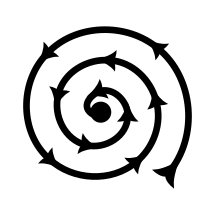
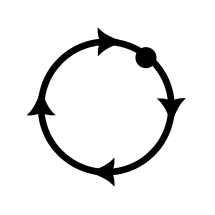
Changed Stability Types...
Changed the stability types to include attractor limit cycles (spirals into centre), repellor limit cycles (spirals away from centre) and cyclic limit cycles.

Changed region(s): [[0.0837, 0.1116, 0.893, 0.893]]

diff --git a/cellnition/science/network_models/probability_networks.py b/cellnition/science/network_models/probability_networks.py
@@ -242,7 +242,7 @@ class ProbabilityNet(NetworkABC):
 
         # Initialize a list of node indices that should be constrained (removed from solution searches)
         # due to their lack of regulation:
-        self.signal_node_inds = []
+        self.input_node_inds = []
 
         if A_add_s.shape != (self.N_nodes, self.N_nodes):
             raise Exception("Shape of A_add_s is not in terms of network node number!")
@@ -291,7 +291,7 @@ class ProbabilityNet(NetworkABC):
         for i in range(self.N_nodes):
             if self._add_terms[i] == 0 and self._mul_terms[i] == 1: # if there's no add term and no mul term
                 self._dcdt_vect_s.append(0) # set the rate of change of this unregulated node to zero
-                self.signal_node_inds.append(i) # append this node to the list of nodes that should be constrained
+                self.input_node_inds.append(i) # append this node to the list of nodes that should be constrained
             elif self._add_terms[i] == 0 and self._mul_terms[i] != 1: # remove the null add term to avoid nulling all growth
                 self._dcdt_vect_s.append(self._d_vect_s[i] * self._mul_terms[i] -
                                          self._c_vect_s[i] * self._d_vect_s[i])
@@ -312,7 +312,7 @@ class ProbabilityNet(NetworkABC):
         self._A_mul_s = A_mul_s
 
         # get the "regular" nodes:
-        self.nonsignal_node_inds = np.setdiff1d(self.nodes_index, self.signal_node_inds)
+        self.noninput_node_inds = np.setdiff1d(self.nodes_index, self.input_node_inds)
 
     def make_numerical_params(self,
                        d_base: float|list[float]=1.0,
@@ -564,33 +564,38 @@ class ProbabilityNet(NetworkABC):
             eig_vals = np.round(np.real(eig_valso), 1) + np.round(np.imag(eig_valso), 1) * 1j
 
             solution_dict['Jacobian Eigenvalues'] = eig_vals
+            # print(eig_vals)
 
             # get the indices of eigenvalues that have only real components:
             real_eig_inds = (np.imag(eig_vals) == 0.0).nonzero()[0]
 
-            # If all eigenvalues are real and they're all negative:
+            # If all eigenvalues are real and they're all negative then its an attractor:
             if len(real_eig_inds) == len(eig_vals) and np.all(np.real(eig_vals) <= 0.0):
                 char_tag = EquilibriumType.attractor.name
 
-            # If all eigenvalues are real and they're all positive:
+            # If all eigenvalues are real and they're all positive then its a repellor:
             elif len(real_eig_inds) == len(eig_vals) and np.all(np.real(eig_vals) > 0.0):
                 char_tag = EquilibriumType.repellor.name
 
-            # If there are no real eigenvalues we only know its a limit cycle but can't say
-            # anything certain about stability:
-            elif len(real_eig_inds) == 0 and np.all(np.real(eig_vals) <= 0.0):
-                char_tag = EquilibriumType.limit_cycle.name
-
-            # If there are no real eigenvalues and a mix of real component sign, we only know its a limit cycle but can't say
-            # anything certain about stability:
-            elif len(real_eig_inds) == 0 and np.any(np.real(eig_vals) > 0.0):
-                char_tag = EquilibriumType.limit_cycle.name
-
-            elif np.all(np.real(eig_vals[real_eig_inds]) <= 0.0):
-                char_tag = EquilibriumType.limit_cycle.name
-
-            elif np.any(np.real(eig_vals[real_eig_inds] > 0.0)):
+            # If all eigenvalues are real and they're a mix of positive and negative, then it's a saddle:
+            elif len(real_eig_inds) == len(eig_vals) and np.any(np.real(eig_vals[real_eig_inds] > 0.0)):
                 char_tag = EquilibriumType.saddle.name
+
+            # If there are imaginary eigenvalue components and all real components are less than zero we
+            # have a stable limit cycle:
+            elif np.any(np.imag(eig_vals) != 0.0) and np.all(np.real(eig_vals) <= 0.0):
+                char_tag = EquilibriumType.attractor_limit_cycle.name
+
+            # If there are imaginary eigenvalue components and all real components are less than zero we
+            # have a stable limit cycle:
+            elif np.any(np.imag(eig_vals) != 0.0) and np.all(np.real(eig_vals) > 0.0):
+                char_tag = EquilibriumType.repellor_limit_cycle.name
+
+            # If there are imaginary eigenvalues and a mix of real component signs, we only know its a limit cycle but can't say
+            # anything certain about stability:
+            elif np.any(np.imag(eig_vals) != 0.0) and np.any(np.real(eig_vals) > 0.0):
+                char_tag = EquilibriumType.limit_cycle.name
+
             else:
                 char_tag = EquilibriumType.undetermined.name
 
@@ -627,17 +632,6 @@ class ProbabilityNet(NetworkABC):
         solsM_return = np.asarray(solsM).T
         sol_char_list_return = np.asarray(sol_char_list).T
 
-        # if unique_sols and len(solsM) != 0:
-        #     # round the sols to avoid degenerates and return indices to the unique solutions:
-        #     solsy, inds_solsy = np.unique(np.round(solsM, sol_round), axis=0, return_index=True)
-        #     if verbose:
-        #         for i, si in enumerate(inds_solsy):
-        #             print(f'Soln {i}: {sol_char_list[si]}, '
-        #                   f'{solsy[si]}, '
-        #                   f'error: {np.round(sol_char_error[si], 6)}')
-        #
-        #     solsM_return = np.asarray(solsM)[inds_solsy].T
-
         if save_file is not None:
             solsMi = np.asarray(solsM)
             header = [f'State {i}' for i in range(solsMi.shape[0])]
@@ -662,7 +656,7 @@ class ProbabilityNet(NetworkABC):
         these naturally-occuring nodes with any additional constraints
         supplied by the user.
         '''
-        len_constr = len(self.signal_node_inds)
+        len_constr = len(self.input_node_inds)
 
         if signal_constr_vals is None: # default to zero
             sig_vals = np.zeros(len_constr).tolist()
@@ -671,10 +665,10 @@ class ProbabilityNet(NetworkABC):
 
         if len_constr != 0:
             if constr_inds is None or constr_vals is None:
-                constrained_inds = self.signal_node_inds.copy()
+                constrained_inds = self.input_node_inds.copy()
                 constrained_vals = sig_vals
             else:
-                constrained_inds = constr_inds + self.signal_node_inds.copy()
+                constrained_inds = constr_inds + self.input_node_inds.copy()
                 constrained_vals = constr_vals + sig_vals
         else:
             constrained_inds = constr_inds*1

diff --git a/cellnition/science/networks_toolbox/state_machine.py b/cellnition/science/networks_toolbox/state_machine.py
@@ -76,12 +76,20 @@ class StateMachine(object):
         attractor_fname = FileRelative(GLYPH_DIR, 'glyph_attractor.png')
         limitcycle_fname = FileRelative(GLYPH_DIR, 'glyph_limit_cycle.png')
         saddle_fname = FileRelative(GLYPH_DIR, 'glyph_saddle.png')
+        attractor_limitcycle_fname = FileRelative(GLYPH_DIR, 'glyph_attractor_limit_cycle.png')
+        repellor_limitcycle_fname = FileRelative(GLYPH_DIR, 'glyph_repellor_limit_cycle.png')
+        repellor_fname = FileRelative(GLYPH_DIR, 'glyph_repellor.png')
+        unknown_fname = FileRelative(GLYPH_DIR, 'glyph_unknown.png')
 
         # Associate each equilibrium type with an image file
         self._node_image_dict = {
             EquilibriumType.attractor.name: str(attractor_fname),
             EquilibriumType.limit_cycle.name: str(limitcycle_fname),
             EquilibriumType.saddle.name: str(saddle_fname),
+            EquilibriumType.attractor_limit_cycle.name: str(attractor_limitcycle_fname),
+            EquilibriumType.repellor_limit_cycle.name: str(repellor_limitcycle_fname),
+            EquilibriumType.repellor.name: str(repellor_fname),
+            EquilibriumType.undetermined.name: str(unknown_fname)
         }
 
     def steady_state_solutions_search(self,
@@ -103,13 +111,13 @@ class StateMachine(object):
         # FIXME: do we want this to have additional node constraints?
 
         sig_lin = [1.0e-6, 1.0]
-        sig_lin_set = [sig_lin for i in self._pnet.signal_node_inds]
+        sig_lin_set = [sig_lin for i in self._pnet.input_node_inds]
 
         sigGrid = np.meshgrid(*sig_lin_set)
 
         N_vocab = len(sigGrid[0].ravel())
 
-        sig_test_set = np.zeros((N_vocab, len(self._pnet.signal_node_inds)))
+        sig_test_set = np.zeros((N_vocab, len(self._pnet.input_node_inds)))
 
         for i, sigM in enumerate(sigGrid):
             sig_test_set[:, i] = sigM.ravel()
@@ -150,7 +158,7 @@ class StateMachine(object):
             charM_all.extend(chari)
 
             # _, inds_solsM_all_unique = np.unique(np.round(solsM_all, 1), axis=1, return_index=True)
-        _, inds_solsM_all_unique = np.unique(np.round(solsM_all, 1)[self._pnet.nonsignal_node_inds, :], axis=1,
+        _, inds_solsM_all_unique = np.unique(np.round(solsM_all, 1)[self._pnet.noninput_node_inds, :], axis=1,
                                              return_index=True)
 
         solsM_all = solsM_all[:, inds_solsM_all_unique]
@@ -166,14 +174,14 @@ class StateMachine(object):
             charM_all[0] = EquilibriumType.saddle.name  # update the state to a saddle node
 
         # set of all states referencing only the hub nodes; rounded to one decimal:
-        state_set = np.round(solsM_all[self._pnet.nonsignal_node_inds, :].T, 1).tolist()
+        state_set = np.round(solsM_all[self._pnet.noninput_node_inds, :].T, 1).tolist()
 
         states_dict = OrderedDict()
         for sigi in sig_test_set:
             states_dict[tuple(sigi)] = {'States': [], 'Stability': []}
 
         for sigi, state_subseto in zip(sig_test_set, sols_list):
-            state_subset = state_subseto[self._pnet.nonsignal_node_inds, :]
+            state_subset = state_subseto[self._pnet.noninput_node_inds, :]
             for target_state in np.round(state_subset, 1).T.tolist():
                 if target_state in state_set:
                     state_match_index = state_set.index(target_state)
@@ -258,7 +266,7 @@ class StateMachine(object):
                             for si in states_set_i:
                                 nde_i = f'{trans_label_i}.{si}'
                                 G_sub.add_node(nde_i, label=f'State {si}')
-                                G_sub.add_edge(nde_i, nde_j, label=f'S{trans_label_j}')
+                                G_sub.add_edge(nde_i, nde_j, label=f'I{trans_label_j}')
 
                         elif len(
                                 shared_states) > 1:  # allow for a 3rd level of hierarchy...we don't know what it means yet...
@@ -269,7 +277,7 @@ class StateMachine(object):
                                 for si in states_set_i:
                                     nde_i = f'{trans_label_i}.{si}'
                                     G_sub.add_node(nde_i, label=f'State {si}')
-                                    G_sub.add_edge(nde_i, nde_j, label=f'S{trans_label_j}')
+                                    G_sub.add_edge(nde_i, nde_j, label=f'I{trans_label_j}')
 
             else:
                 for si in states_set_i:
@@ -330,7 +338,7 @@ class StateMachine(object):
 
             trans_label_i = int(trans_label_io, 2)
 
-            G.add_subgraph(name=f'cluster_{trans_label_i}', label=f'Held at S{trans_label_i}')
+            G.add_subgraph(name=f'cluster_{trans_label_i}', label=f'Held at I{trans_label_i}')
 
         # Then get the way this specific graph will order them:
         subg_list = [subg.name for subg in G.subgraphs()]
@@ -401,7 +409,7 @@ class StateMachine(object):
                                                    style='filled',
                                                    fillcolor=nde_color)
 
-                                    G_sub.add_edge(nde_i, nde_j, label=f'S{trans_label_j}')
+                                    G_sub.add_edge(nde_i, nde_j, label=f'I{trans_label_j}')
 
             else:
                 for si in states_set_i:

diff --git a/cellnition_test/a00_unit/a90_sim/test_grn_workflow.py b/cellnition_test/a00_unit/a90_sim/test_grn_workflow.py
@@ -115,7 +115,7 @@ def test_grn_workflow_libgraph(tmp_path) -> None:
                                 sol_unique_tol=1.0e-1,
                                 sol_ko_tol=1.0e-1,
                                 constraint_vals=[0.0, 0.0, 0.0],  # *signal vals
-                                constraint_inds=gmod.signal_node_inds.copy(),  # * signal inds
+                                constraint_inds=gmod.input_node_inds.copy(),  # * signal inds
                                 update_string=None,  # * with string
                                 pure_gene_edges_only=False,  # * True
                                 node_type_dict=libg.node_type_dict,  # * None
@@ -246,7 +246,7 @@ def test_grn_workflow_readfromfile(tmp_path) -> None:
                                 sol_unique_tol=1.0e-1,
                                 sol_ko_tol=1.0e-1,
                                 constraint_vals=[0.0, 0.0, 0.0],  # *signal vals
-                                constraint_inds=gmod.signal_node_inds.copy(),  # * signal inds
+                                constraint_inds=gmod.input_node_inds.copy(),  # * signal inds
                                 update_string=None,  # * with string
                                 pure_gene_edges_only=False,  # * True
                                 node_type_dict=libg.node_type_dict,  # * None

diff --git a/cellnition/science/network_models/network_abc.py b/cellnition/science/network_models/network_abc.py
@@ -491,10 +491,10 @@ class NetworkABC(object, metaclass=ABCMeta):
         # aliases for convenience:
         # combine signals with factors as they have a similar 'setability' condition
         # from the outside
-        self.signal_node_inds = self.node_type_inds[NodeType.signal.name] + self.node_type_inds[NodeType.factor.name]
+        self.input_node_inds = self.node_type_inds[NodeType.signal.name] + self.node_type_inds[NodeType.factor.name]
         self.sensor_node_inds = self.node_type_inds[NodeType.sensor.name]
         self.process_node_inds = self.node_type_inds[NodeType.process.name]
-        self.nonsignal_node_inds = np.setdiff1d(self.nodes_index, self.signal_node_inds).tolist()
+        self.noninput_node_inds = np.setdiff1d(self.nodes_index, self.input_node_inds).tolist()
 
     def edges_from_path(self, path_nodes: list|ndarray) -> list:
         '''
@@ -663,7 +663,7 @@ class NetworkABC(object, metaclass=ABCMeta):
 
                 # Create a set of signal node indices to the reduced c_vect array:
                 self.signal_reduced_inds = []
-                for si in self.signal_node_inds:
+                for si in self.input_node_inds:
                     if si in self.c_master_i:
                         self.signal_reduced_inds.append(self.c_master_i.index(si))
 

diff --git a/cellnition/science/network_models/gene_networks.py b/cellnition/science/network_models/gene_networks.py
@@ -653,8 +653,8 @@ class GeneNetworkModel(NetworkABC):
             signal_inds = self.signal_reduced_inds
             nonsignal_inds = self.nonsignal_reduced_inds
         else:
-            signal_inds = self.signal_node_inds
-            nonsignal_inds = self.nonsignal_node_inds
+            signal_inds = self.input_node_inds
+            nonsignal_inds = self.noninput_node_inds
 
         if include_signals is False:
             # Create a c_vect sampled to the non-signal nodes:
@@ -1048,7 +1048,7 @@ class GeneNetworkModel(NetworkABC):
 
             if c_signals is not None:
                 # manually set the signal node values:
-                cvecti[self.signal_node_inds] = c_signals[ti, self.signal_node_inds]
+                cvecti[self.input_node_inds] = c_signals[ti, self.input_node_inds]
 
             if dt_samp is None:
                 concs_time.append(cvecti * 1)

diff --git a/cellnition/science/network_models/network_enums.py b/cellnition/science/network_models/network_enums.py
@@ -36,8 +36,9 @@ class GraphType(Enum):
 class EquilibriumType(Enum):
     attractor = 'Attractor'
     repellor = 'Repellor'
+    attractor_limit_cycle = 'Attractor Limit Cycle'
+    repellor_limit_cycle = 'Repellor Limit Cycle'
     limit_cycle = 'Limit Cycle'
-    cycle = 'Limit Cycle'
     saddle = 'Saddle'
     undetermined = 'Undetermined'
 
